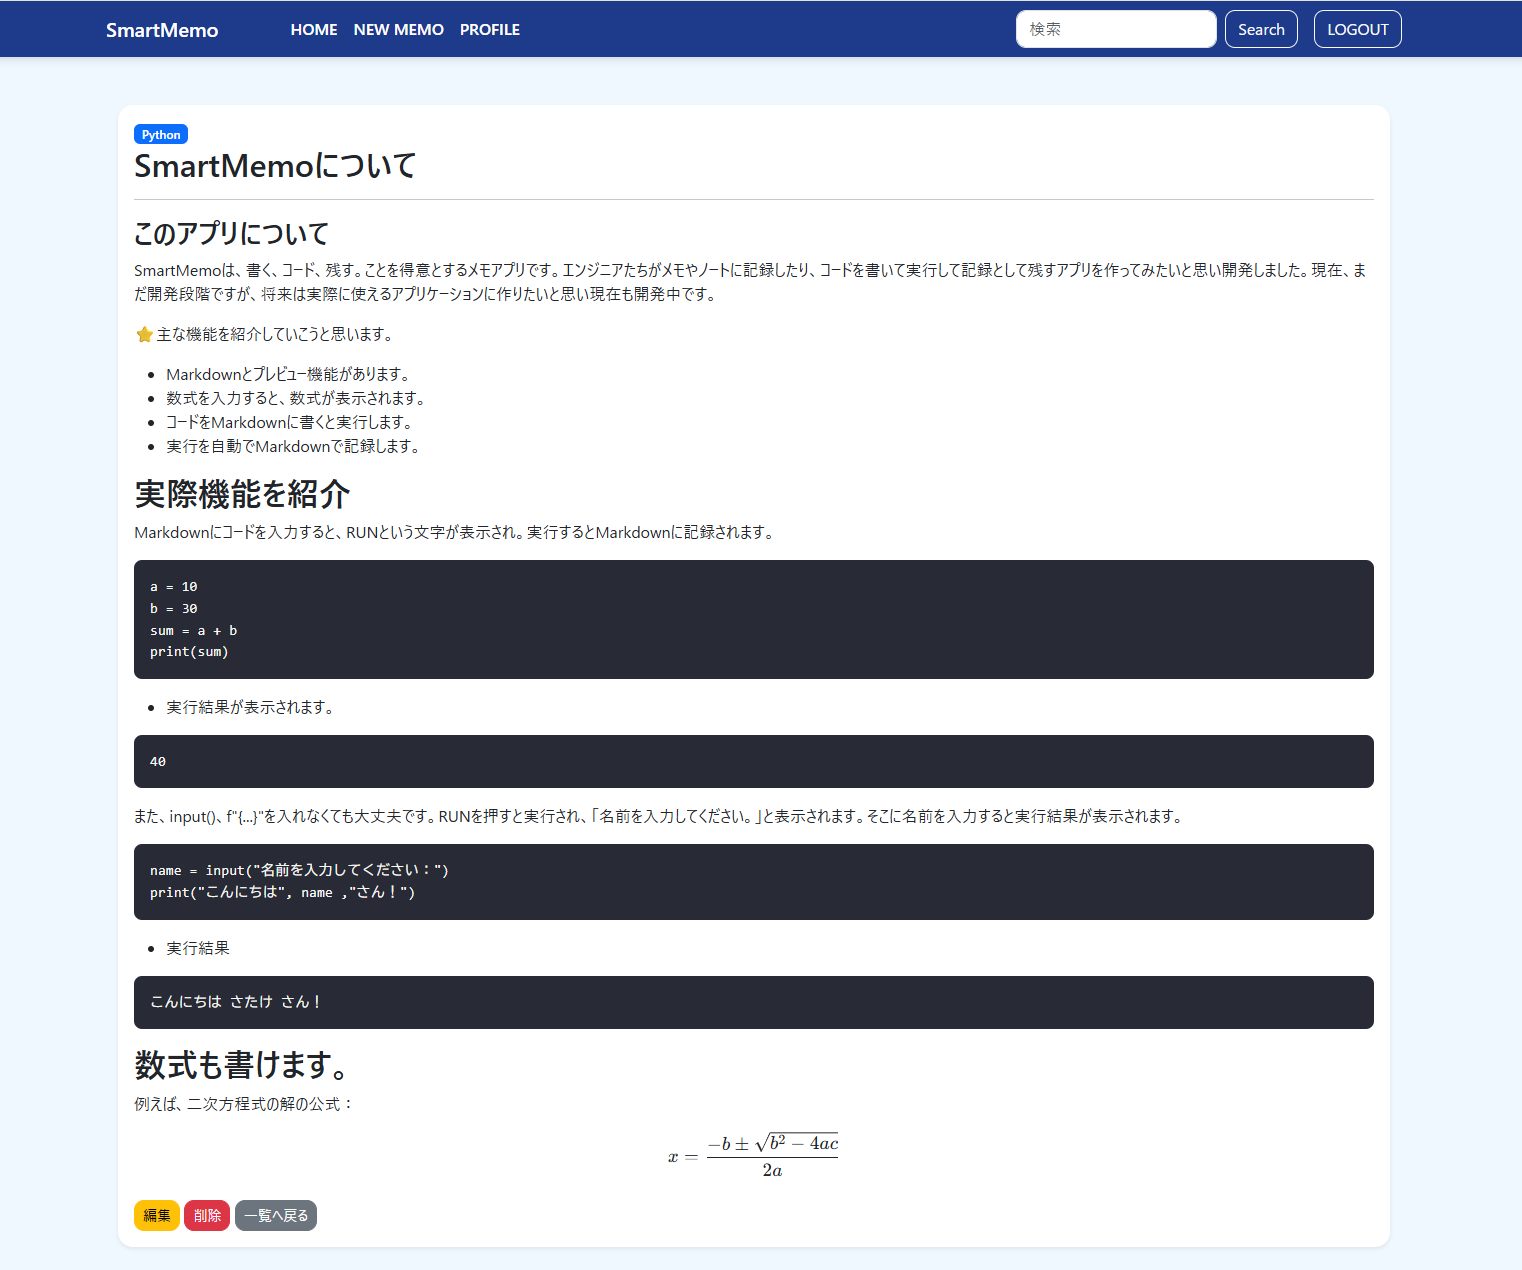
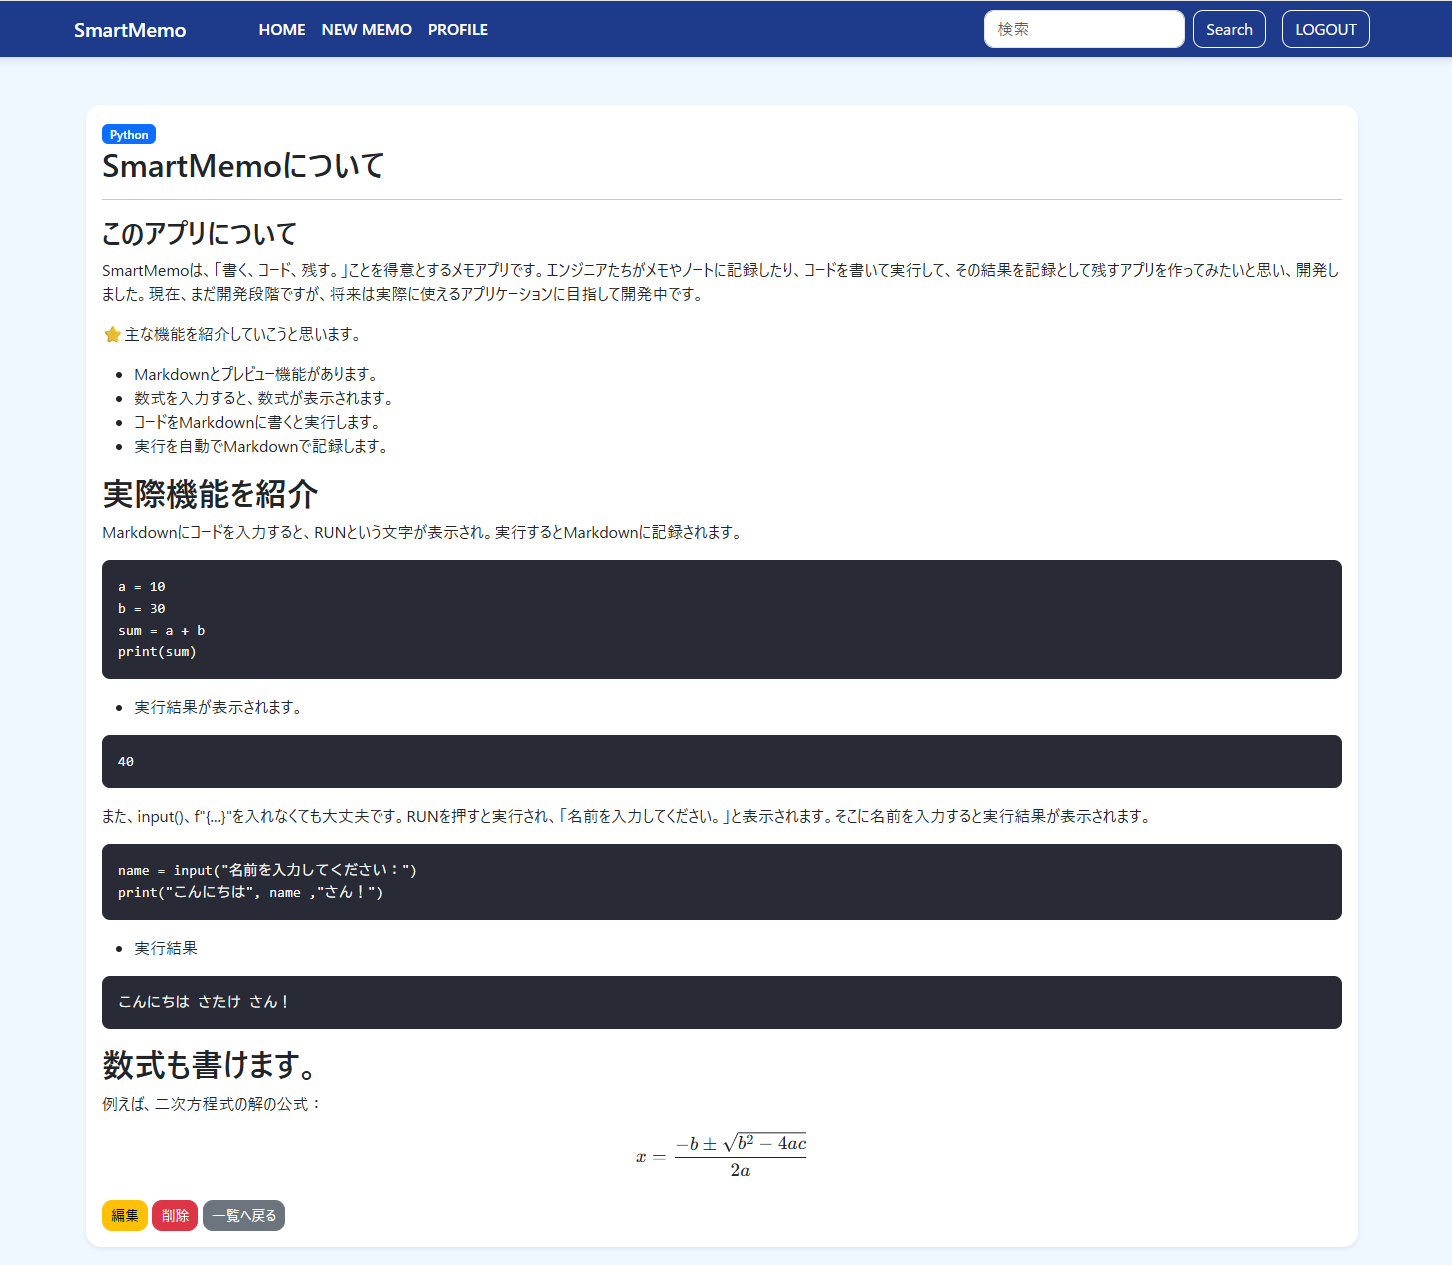
Update README app description and screenshots

diff --git a/README.md b/README.md
@@ -9,7 +9,7 @@ Currently under development
 
 ##　アプリイメージ
 
-![SmartMemo-メモ新規画面](screenshots/sample01.png)
+![SmartMemo-メモ新規画面](screenshots/sample1.png)
 左側がMarkdown、右がプレビューになっています。
 
 ![SmartMemo-RUN実行対応](screenshots/sample2.png)
